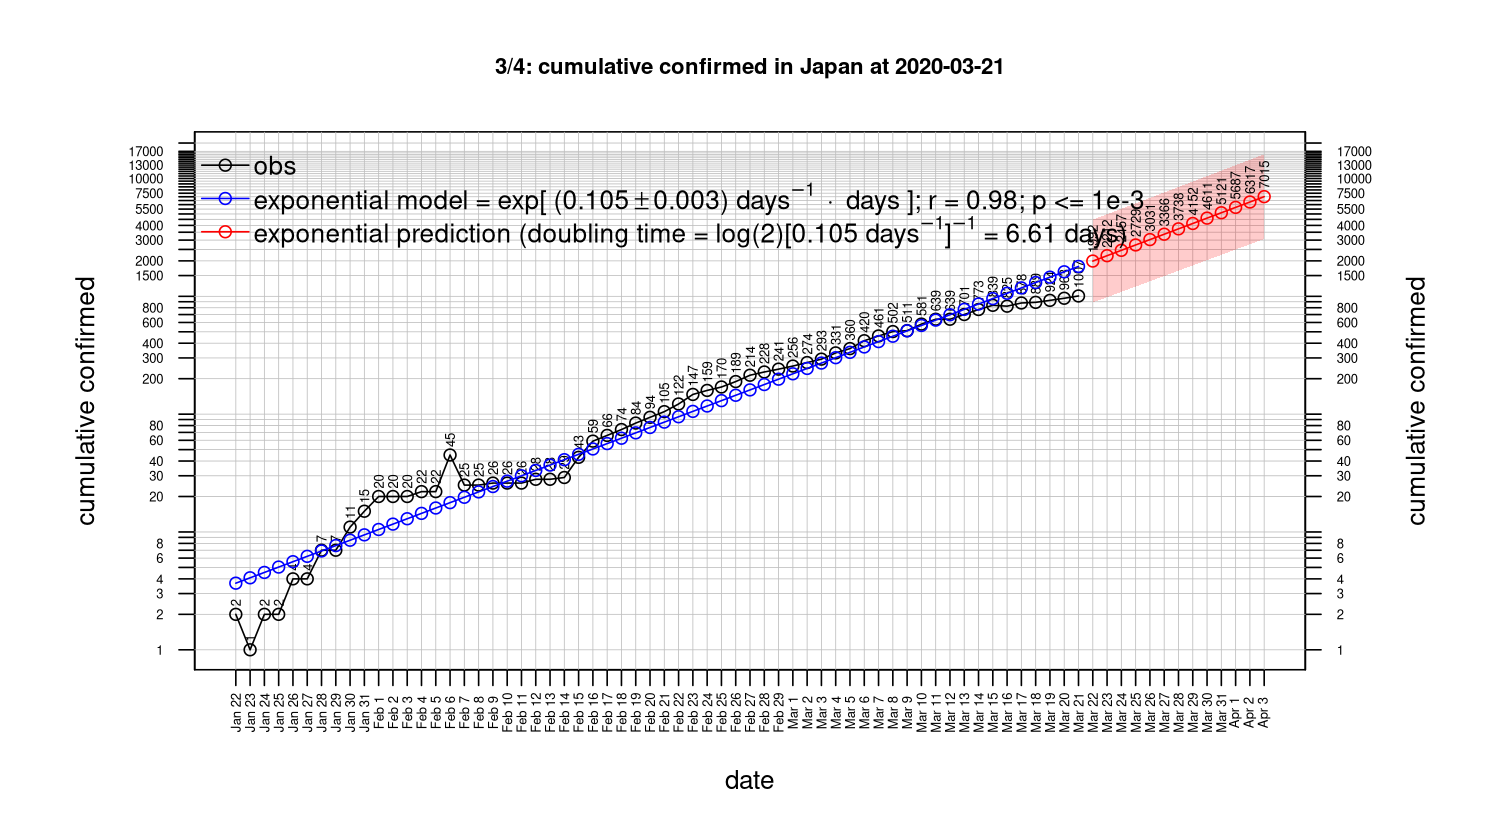
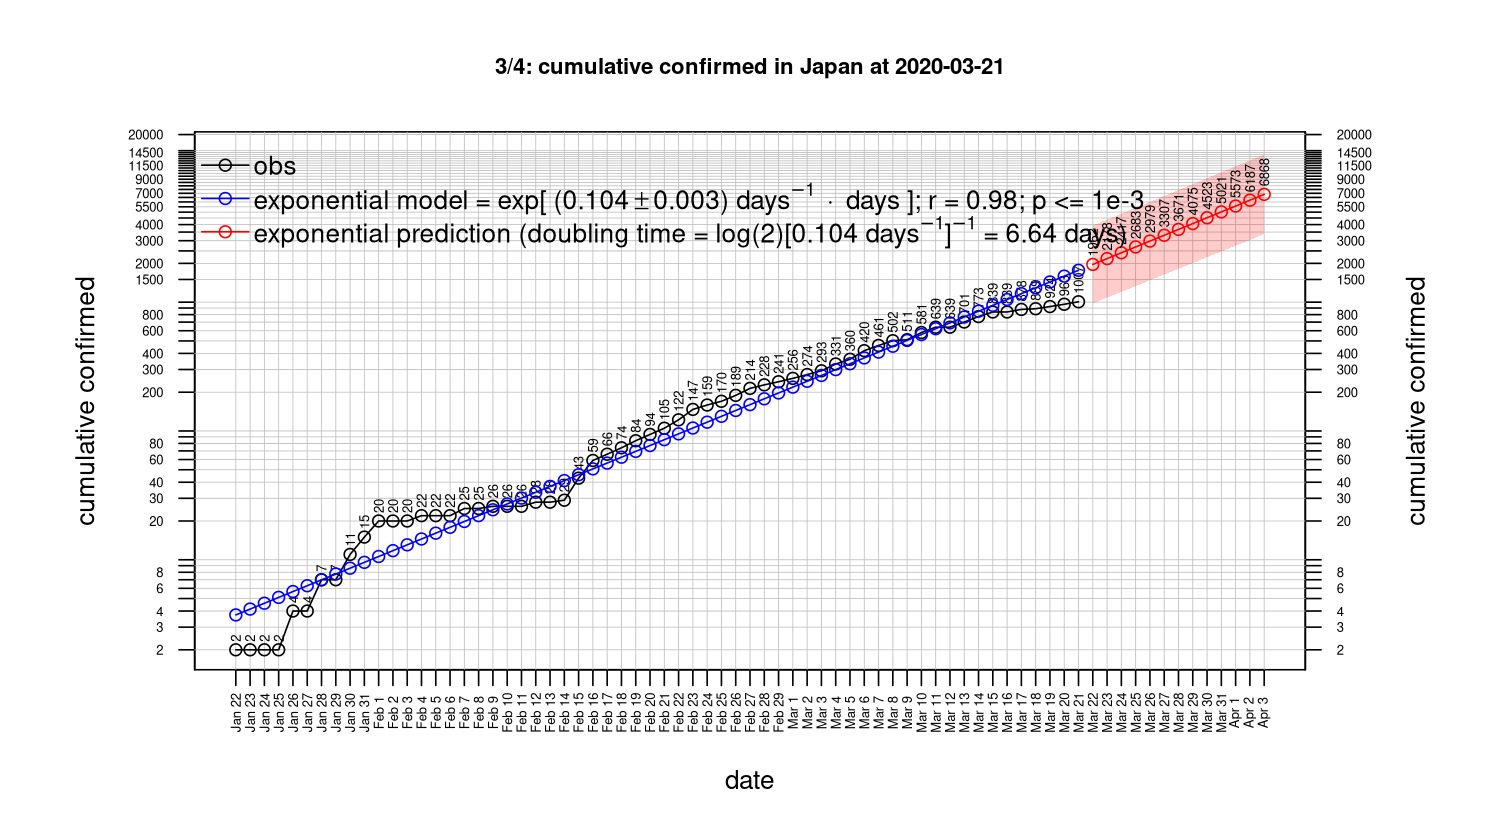
upstream changed time series file names

Changed region(s): [[0.092, 0.1561, 0.92, 0.8115]]

diff --git a/r_plots/README.md b/r_plots/README.md
@@ -3,7 +3,7 @@
   * upstream repo: https://github.com/CSSEGISandData/COVID-19  
   * time of last pull of upstream repo: **2020-03-22 22:17:22 CET** (timestamp of file `.git/refs/remotes/upstream`)  
   * hash of last pulled commit of upstream repo: `00c167ff575073e0367c704542984708da47b049` (`git rev-parse upstream/master`)  
-  * last date of `COVID-19/csse_covid_19_data/time_series_19-covid-*.csv` data: **2020-03-21**
+  * last date of `COVID-19/csse_covid_19_data/time_series_covid19_*_global.csv` data: **2020-03-21**
 
 # Select country
 
